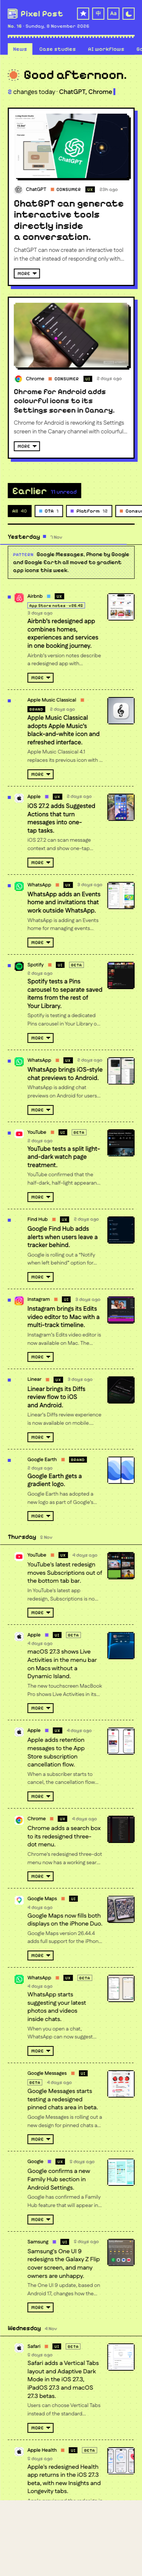
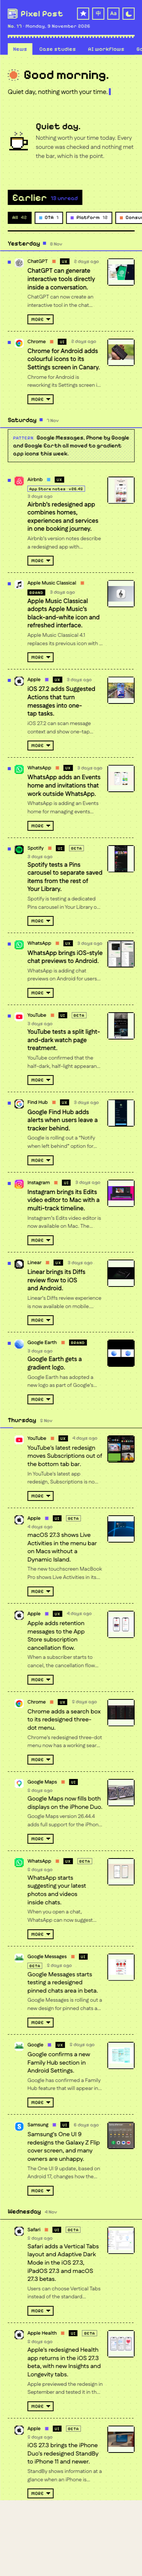
Images: fit the complete design in small thumbnails and the enlarged viewer

diff --git a/site/styles.css b/site/styles.css
@@ -862,7 +862,7 @@ button {
   background: var(--ink);
 }
 .row-thumb.split img {
-  object-fit: cover;
+  object-fit: contain;
   min-width: 0;
 }
 
@@ -1385,7 +1385,7 @@ button {
 .row-thumb img {
   width: 100%;
   height: 100%;
-  object-fit: cover;
+  object-fit: contain;
   object-position: center;
 }
 /* Lines up with the headline: 12px dot + 24px icon + two 14px gaps. */
@@ -2527,8 +2527,8 @@ html:lang(zh-CN) .snake-hint span {
 
 /* ---------- small-card image viewer ---------- */
 
-/* Only archive-row thumbnails are buttons. They crop tightly so the 112×84 preview has no letterbox bars; the
-   full image appears uncropped in the dialog. */
+/* Only small-row thumbnails are buttons. Both the 112×84 preview and the centred viewer show the complete image;
+   letterbox space is intentional when the image has another shape. */
 button.row-thumb {
   padding: 0;
   border: 0;
@@ -2591,6 +2591,7 @@ button.row-thumb:hover {
   display: grid;
   place-items: center;
   min-width: 0;
+  min-height: 0;
   height: 100%;
   margin: 0;
   overflow: hidden;
@@ -2599,7 +2600,10 @@ button.row-thumb:hover {
   display: block;
   width: 100%;
   height: 100%;
+  min-width: 0;
+  min-height: 0;
   object-fit: contain;
+  object-position: center;
 }
 .image-view figcaption {
   position: absolute;

diff --git a/site/app.js b/site/app.js
@@ -945,15 +945,15 @@ function placeholderOnError(img) {
 
 function wireImages() {
   for (const img of document.querySelectorAll('.media img, .row-thumb img')) placeholderOnError(img);
-  // Large cards may contain a tall phone screenshot; show that whole. Small row thumbnails always crop to fill,
-  // and clicking them opens the uncropped image in the viewer.
+  // Large cards may contain a tall phone screenshot; show that whole. Small row thumbnails always fit the complete
+  // image too, and clicking them opens the same uncropped image in the viewer.
   for (const img of document.querySelectorAll('.media img')) fitWhole(img);
   tileIcons();
 }
 
 /**
  * Large-card pictures fill their frame, trimming the edges. A picture much wider or taller than the frame (a grid
- * of app icons, a tall phone screen) would lose what matters, so it is shown whole there. Small thumbnails crop.
+ * of app icons, a tall phone screen) would lose what matters, so it is shown whole there. Small thumbnails fit all images.
  */
 function fitWhole(img) {
   const check = () => {

diff --git a/tests/parsers.test.ts b/tests/parsers.test.ts
@@ -218,6 +218,6 @@ test('small news images are viewer buttons; source links stay on headlines', () 
   assert.match(app, /openImageViewer/);
   const css = readFileSync('site/styles.css', 'utf8');
   assert.match(css, /button\.row-thumb[\s\S]*cursor: zoom-in/);
-  assert.match(css, /\.row-thumb img[\s\S]*object-fit: cover/);
+  assert.match(css, /\.row-thumb img[\s\S]*object-fit: contain/);
   assert.match(css, /\.image-view img[\s\S]*object-fit: contain/);
 });

diff --git a/README.md b/README.md
@@ -240,4 +240,4 @@ src/compare.ts        picks each item's picture (and before/after pairs)
 
 **Saved.** Every item has a **star** and a **note**: type it, then **Save note** (inside the box) or Cmd+Enter; the box closes and the note shows under the item, with **Edit note** to change it. The **Saved** button (top right) lists the week's starred items with their notes and a **Remove** button, a week at a time. Stars and notes are kept in your browser only, so they don't follow you to another device. Share links sent before November 2026 still open, read-only.
 
-English by default, with a **中 / EN** switch (top right) that changes the page content, including dates and each item's write-up, and is remembered in your browser. The browser/search title and English SEO/share metadata stay English in both modes, so Chrome does not save a Chinese Pixel Post title in history suggestions. Items written before the Chinese write-ups were added (before 30 Oct 2026) stay in English. Light by default, with a dark mode toggle next to it. Each item has a **UI**, **UX** or **Brand** label, and the archive can be filtered by it. Pixelify Sans for headlines, Fustat for reading. An **Aa** switch (top right) changes headlines, labels and buttons to Fustat as well, for anyone who finds the pixel font hard to read; the Pixel Post name keeps the pixel font. The pixel font is the default, and the choice is remembered in the browser. In the simpler font, big headings are bolder and a little tighter (`:root[data-font='clean']` in `site/styles.css`). Colours come from one palette, used boldly: a lime page (#E9FEA3) with black type and thick black rules; the masthead is an indigo band (#4C49F3) with lime type; every story today is the same white card with a black border and a hard indigo pixel shadow, the first one with a larger headline. A card shows its headline and a two-line summary; More opens why it matters, the sources and Save / Note, with Less at the very end. Buttons and chips are black-bordered, solid black when on. Reading text is black (why it matters, notes) and dark grey #474747 (summaries); dates, counts and sources grey (#6D6E6D). In dark mode reading text is white and light grey #C4C4C4, while headlines and buttons stay lime. Dark mode turns the masthead over (a lime band with black type) on a black page, with lime type and borders and dark grey cards. It keeps the same indigo accent for the timeline, fills and pixel shadows; since indigo text is too dark on black, its small labels ("Why it matters") become indigo chips with lime type. Category dots: OTA sky, rail green, platform violet, consumer orange. All text meets 4.5:1 contrast in both themes. The variables are at the top of `site/styles.css`; the bold parts (band, cards, buttons) are in its "identity" section. The timeline fills with the accent as you scroll. The logo is a pixel newspaper whose lines print in. Cards, dates and archive rows print in as they scroll into view, and images arrive blocky and sharpen in a few steps, then show as they are, with nothing over them. Every News story must have a verified image of its reported change; otherwise collection drops it and the build refuses to publish it. In smaller cards, thumbnails crop to fill their 4:3 frame. Clicking a small thumbnail opens the full uncropped image in a centred viewer; before/after pairs open together. The headline remains the source link, and large-card images keep their existing behavior. Unread dots mark items collected since your previous visit (kept in your browser's localStorage) and clear when you open an item. Motion is switched off when your system asks for reduced motion.
+English by default, with a **中 / EN** switch (top right) that changes the page content, including dates and each item's write-up, and is remembered in your browser. The browser/search title and English SEO/share metadata stay English in both modes, so Chrome does not save a Chinese Pixel Post title in history suggestions. Items written before the Chinese write-ups were added (before 30 Oct 2026) stay in English. Light by default, with a dark mode toggle next to it. Each item has a **UI**, **UX** or **Brand** label, and the archive can be filtered by it. Pixelify Sans for headlines, Fustat for reading. An **Aa** switch (top right) changes headlines, labels and buttons to Fustat as well, for anyone who finds the pixel font hard to read; the Pixel Post name keeps the pixel font. The pixel font is the default, and the choice is remembered in the browser. In the simpler font, big headings are bolder and a little tighter (`:root[data-font='clean']` in `site/styles.css`). Colours come from one palette, used boldly: a lime page (#E9FEA3) with black type and thick black rules; the masthead is an indigo band (#4C49F3) with lime type; every story today is the same white card with a black border and a hard indigo pixel shadow, the first one with a larger headline. A card shows its headline and a two-line summary; More opens why it matters, the sources and Save / Note, with Less at the very end. Buttons and chips are black-bordered, solid black when on. Reading text is black (why it matters, notes) and dark grey #474747 (summaries); dates, counts and sources grey (#6D6E6D). In dark mode reading text is white and light grey #C4C4C4, while headlines and buttons stay lime. Dark mode turns the masthead over (a lime band with black type) on a black page, with lime type and borders and dark grey cards. It keeps the same indigo accent for the timeline, fills and pixel shadows; since indigo text is too dark on black, its small labels ("Why it matters") become indigo chips with lime type. Category dots: OTA sky, rail green, platform violet, consumer orange. All text meets 4.5:1 contrast in both themes. The variables are at the top of `site/styles.css`; the bold parts (band, cards, buttons) are in its "identity" section. The timeline fills with the accent as you scroll. The logo is a pixel newspaper whose lines print in. Cards, dates and archive rows print in as they scroll into view, and images arrive blocky and sharpen in a few steps, then show as they are, with nothing over them. Every News story must have a verified image of its reported change; otherwise collection drops it and the build refuses to publish it. In smaller cards, thumbnails use fit/contain so the complete design stays visible; empty space is accepted when the image has another aspect ratio. Clicking a small thumbnail opens the same full uncropped image in a centred viewer; the viewer also uses fit/contain, and before/after pairs open together. The headline remains the source link, and large-card images keep their existing behavior. Unread dots mark items collected since your previous visit (kept in your browser's localStorage) and clear when you open an item. Motion is switched off when your system asks for reduced motion.
